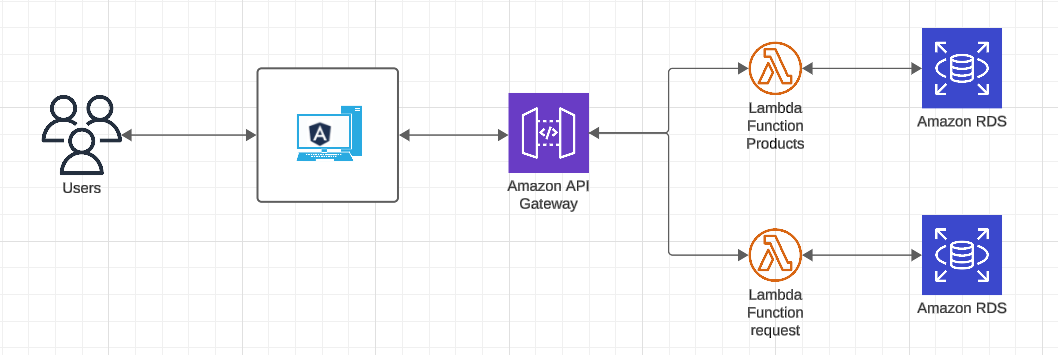
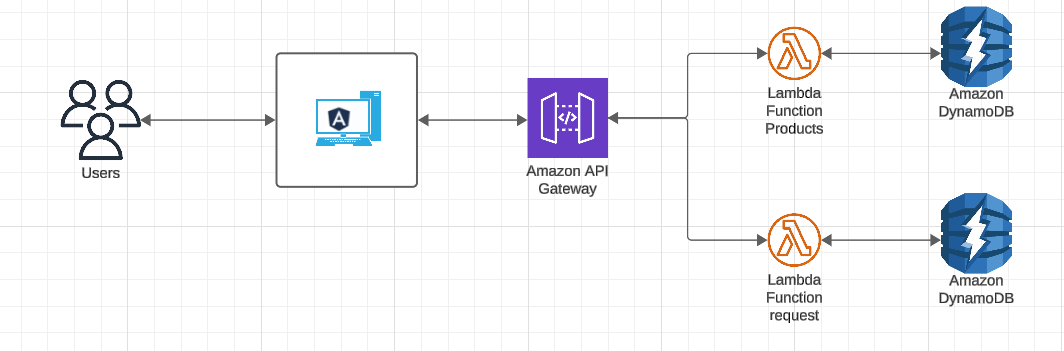
cloud environment with localStack

diff --git a/README.md b/README.md
@@ -1,7 +1,145 @@
 # E-commerce-Platform
 
+## 1. Platform architecture design
+
 When designing your e-commerce platform architecture, consider using a combination of traditional microservices and serverless functions to take advantage of both approaches. Here is the high level architecture diagram:
 
 ![alt text](./docs/architecture.png)
 
 This design allows for a scalable and modular architecture, where each component fulfills a specific function and can be developed, tested and deployed independently. The combination of microservices and serverless functions provides flexibility and efficiency in handling different parts of the platform. Additionally, utilizing AWS services such as API Gateway and Lambda facilitates scalability and deployment in the cloud.
+
+
+## 2. cloud environment with localStack
+
+To simulate the cloud environment according to the proposed architecture, we will use LocalStack, a tool that allows us to emulate AWS services locally. We will go step by step in the installation and configuration of these resources.
+
+### Step by Step:
+
+1. You must make sure you have docker and docker-compose installed. If you don't have it, you can use the following [link](https://imaginaformacion.com/tutoriales/que-es-docker-compose) to guide you through the installation. 
+
+2. We will raise the docker-compose service, with the command 
+    - *```docker-compose up```*  
+
+3. We will generate a secret manager to provide security to our service, we will use the following command 
+    - *```aws --endpoint-url http://localhost:4566 secretsmanager create-secret --name ecommerce-test```*.
+
+    This command will generate an object similar to this 
+    ``` 
+    {
+        "ARN": "arn:aws:secretsmanager:us-east-1:000000000000:secret:ecommerce-test-bToArr",
+        "Name": "ecommerce-test"
+    }
+    ```
+
+4. Before creating the lambda functions we must know the ARN of the role with which we will create the services we need. For this we will use the following command: 
+    - ```aws iam get-role --role-name AWSServiceRoleForSupport  --query "Role.Arn" --output text ```
+
+- This command will return something like this: 
+    - **```arn:aws:iam::360853546345:role/aws-service-role/support.amazonaws.com/AWSServiceRoleForSupport```** 
+
+  > **NOTE:** *Keep in mind that this arn is only an example, you must use the one that returns the execution of the command whenever the role is requested.*
+
+
+5. Now we will create the lambda functions that will contain the functionalities of our services:
+
+    - We will launch the product services with node.js in version 14 and configuration of the handler controller, which will be contained in the project's index.js.
+        - ```aws --endpoint-url=http://localhost:4566 lambda create-function   --function-name ProductServiceLambda   --runtime nodejs14.x   --role arn:aws:iam::360853546345:role/aws-service-role/support.amazonaws.com/AWSServiceRoleForSupport   --handler index.handler   --zip-file "fileb://empty.zip" ```
+
+   - Our next lambda function in charge of order services will be created for Python in version 3.8 and like the previous one, its execution will depend on the handler controller. 
+        - ``` aws --endpoint-url=http://localhost:4566  lambda create-function     --function-name OrderServiceLambda     --runtime python3.8     --role arn:aws:iam::360853546345:role/aws-service-role/support.amazonaws.com/AWSServiceRoleForSupport    --handler lambda_function.lambda_handler     --zip-file fileb://empty.zip ```
+
+
+
+6. We will create the API Gateway which will be the service to expose the lambda functions through the HTTP protocol and will be called 'ECommerceAPI'
+
+    - ```aws --endpoint-url=http://localhost:4566 apigateway create-rest-api  --name "ECommerceAPI" --description "API for E-commerce platform"```
+
+    This would return something similar to this:
+
+    ```
+    {
+        "id": "7u5mpdhdj2",
+        "name": "ECommerceAPI",
+        "description": "API for E-commerce platform",
+        "createdDate": "2024-04-15T12:02:45-05:00",
+        "apiKeySource": "HEADER",
+        "endpointConfiguration": {
+            "types": [
+                "EDGE"
+            ]
+        },
+        "disableExecuteApiEndpoint": false
+    }
+    ```
+
+    > **NOTE:** *In this case, the id '7u5mpdhdj2' must be taken into account, because it will be the parameter when rest-api-id is requested. In the case of parent-id we will obtain it with the following command:
+    ```aws --endpoint-url=http://localhost:4566 apigateway get-resources --rest-api-id 7u5mpdhdj2``` which will give us as output the following ```
+    {
+        "items": [
+            {
+                "id": "a73drtiyzd",
+                "path": "/"
+            }
+        ]
+    }```*
+
+
+1. Create the resource for the product catalog service with the following command.
+    - ```aws --endpoint-url=http://localhost:4566 apigateway create-resource --rest-api-id 7u5mpdhdj2 --parent-id a73drtiyzd --path-part products```
+
+    we will have an output like the following:
+
+    ```
+    {
+        "id": "d8vvit8m2l",
+        "parentId": "a73drtiyzd",
+        "pathPart": "products",
+        "path": "/products"
+    }
+    ```
+
+    > We must take into account the id *'d8vvit8m2l'* because this will be the parameter for when resource-id is required for the product service.
+
+1. Create the routes for the Product Catalog service using the following commands:
+    - ```aws --endpoint-url=http://localhost:4566 apigateway put-method --rest-api-id 7u5mpdhdj2 --resource-id d8vvit8m2l --http-method GET --authorization-type NONE```
+
+    - ```aws --endpoint-url=http://localhost:4566 apigateway put-integration --rest-api-id 7u5mpdhdj2 --resource-id d8vvit8m2l --http-method GET --type AWS_PROXY --integration-http-method POST --uri arn:aws:apigateway:localhost:lambda:path/2015-03-31/functions/arn:aws:lambda:us-east-1:000000000000:function:ProductServiceLambda/invocations```
+
+    - ```aws --endpoint-url=http://localhost:4566 apigateway put-method-response   --rest-api-id 7u5mpdhdj2   --resource-id d8vvit8m2l   --http-method GET   --status-code 200   --response-models "application/json=EMPTY"```
+
+1. Create the resource for the order management service.
+    - ```aws --endpoint-url=http://localhost:4566 apigateway create-resource --rest-api-id 7u5mpdhdj2 --parent-id a73drtiyzd --path-part orders```
+
+    we will have an output like the following:
+
+    ```
+    {
+        "id": "tro1qvpsa2",
+        "parentId": "a73drtiyzd",
+        "pathPart": "orders",
+        "path": "/orders"
+    }
+    ```
+
+    > We must take into account the id *'tro1qvpsa2'* because this will be the parameter for when resource-id is required for the order service.
+
+1. Create the routes for the order management service:
+    - ```aws --endpoint-url=http://localhost:4566 apigateway put-method --rest-api-id 7u5mpdhdj2 --resource-id tro1qvpsa2 --http-method GET --authorization-type NONE```
+
+    - ```aws --endpoint-url=http://localhost:4566 apigateway put-integration --rest-api-id 7u5mpdhdj2 --resource-id tro1qvpsa2 --http-method GET --type AWS_PROXY --integration-http-method POST --uri arn:aws:apigateway:localhost:lambda:path/2015-03-31/functions/arn:aws:lambda:us-east-1:000000000000:function:OrderServiceLambda/invocations```
+
+    - ```aws --endpoint-url=http://localhost:4566 apigateway put-method-response   --rest-api-id 7u5mpdhdj2   --resource-id tro1qvpsa2   --http-method GET   --status-code 200   --response-models "application/json=EMPTY"```
+
+1. Finally we will create the tables in dynamodb
+    1. Create a table to store the products:
+    
+        - ```aws --endpoint-url http://localhost:4566 dynamodb create-table --table-name Products --attribute-definitions AttributeName=ProductId,AttributeType=S --key-schema AttributeName=ProductId,KeyType=HASH --provisioned-throughput ReadCapacityUnits=5,WriteCapacityUnits=5```
+
+        This command creates a table named Products with a ProductId attribute as the primary hash key.
+
+    1. Create a table to store orders:
+
+        - ```aws --endpoint-url http://localhost:4566 dynamodb create-table --table-name Products --attribute-definitions AttributeName=ProductId,AttributeType=S --key-schema AttributeName=ProductId,KeyType=HASH --provisioned-throughput ReadCapacityUnits=5,WriteCapacityUnits=5```
+
+        This command creates a table called Orders with an OrderId attribute as the primary hash key.
+
